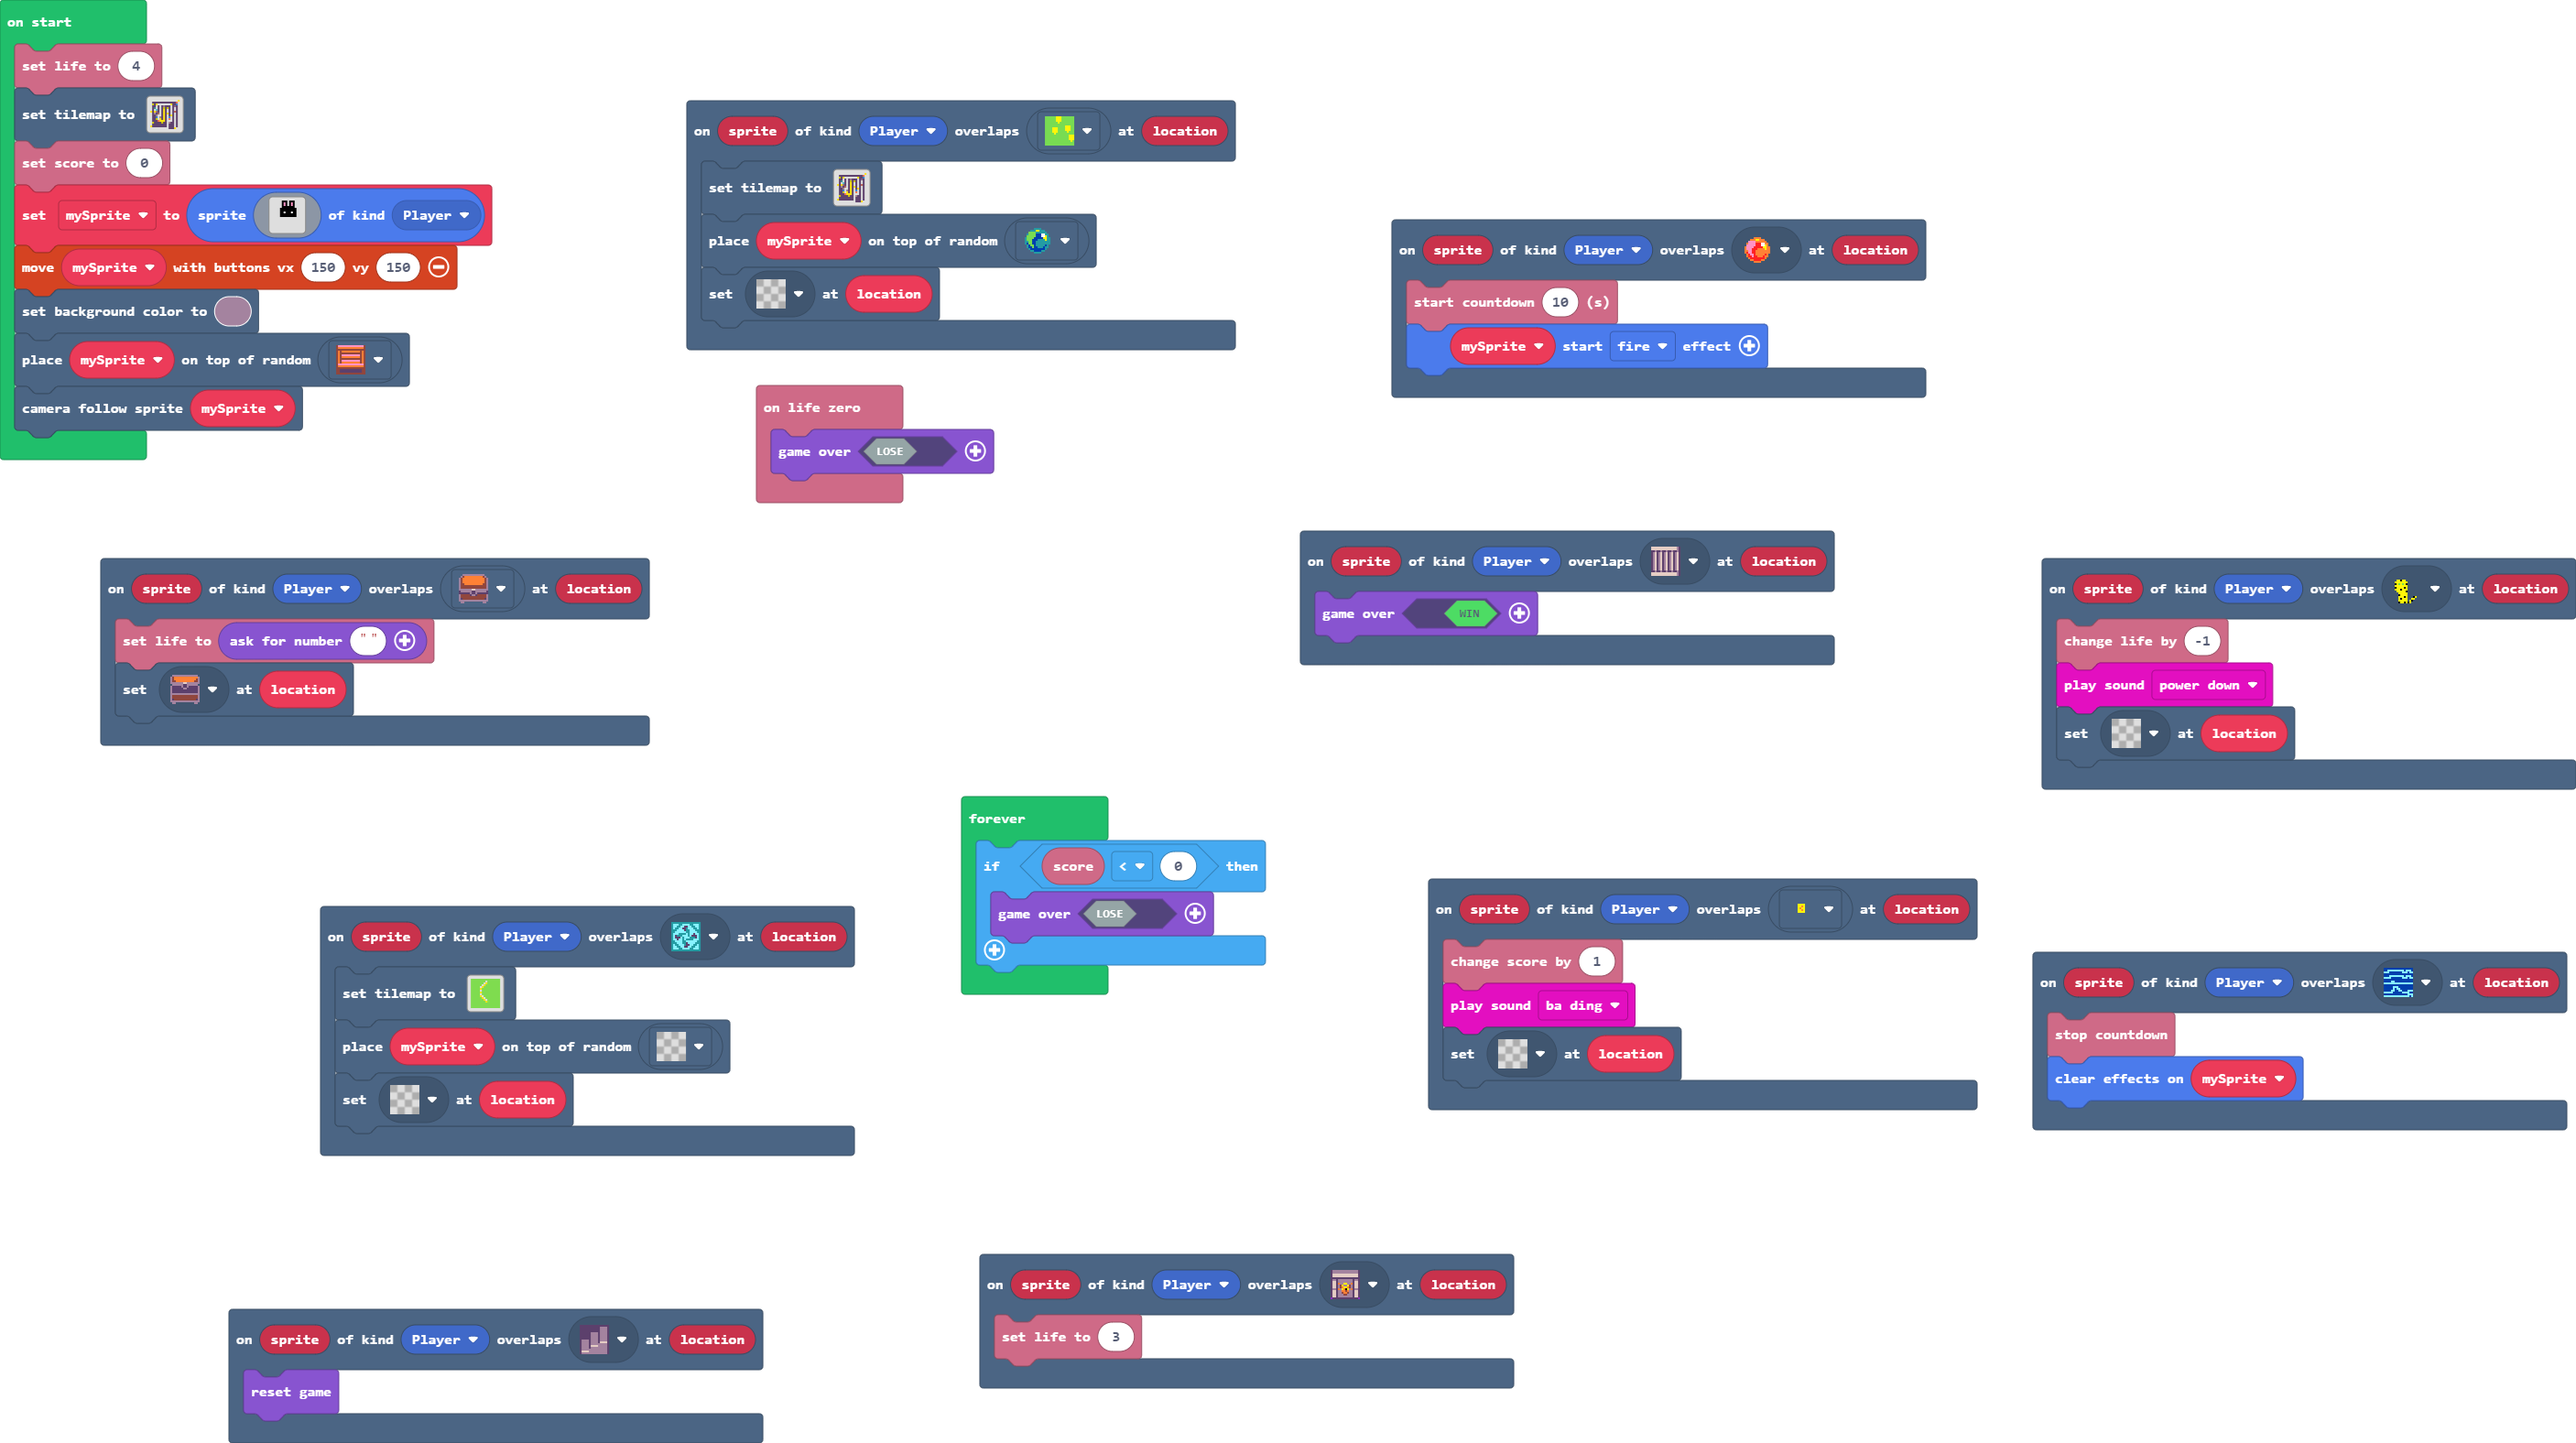
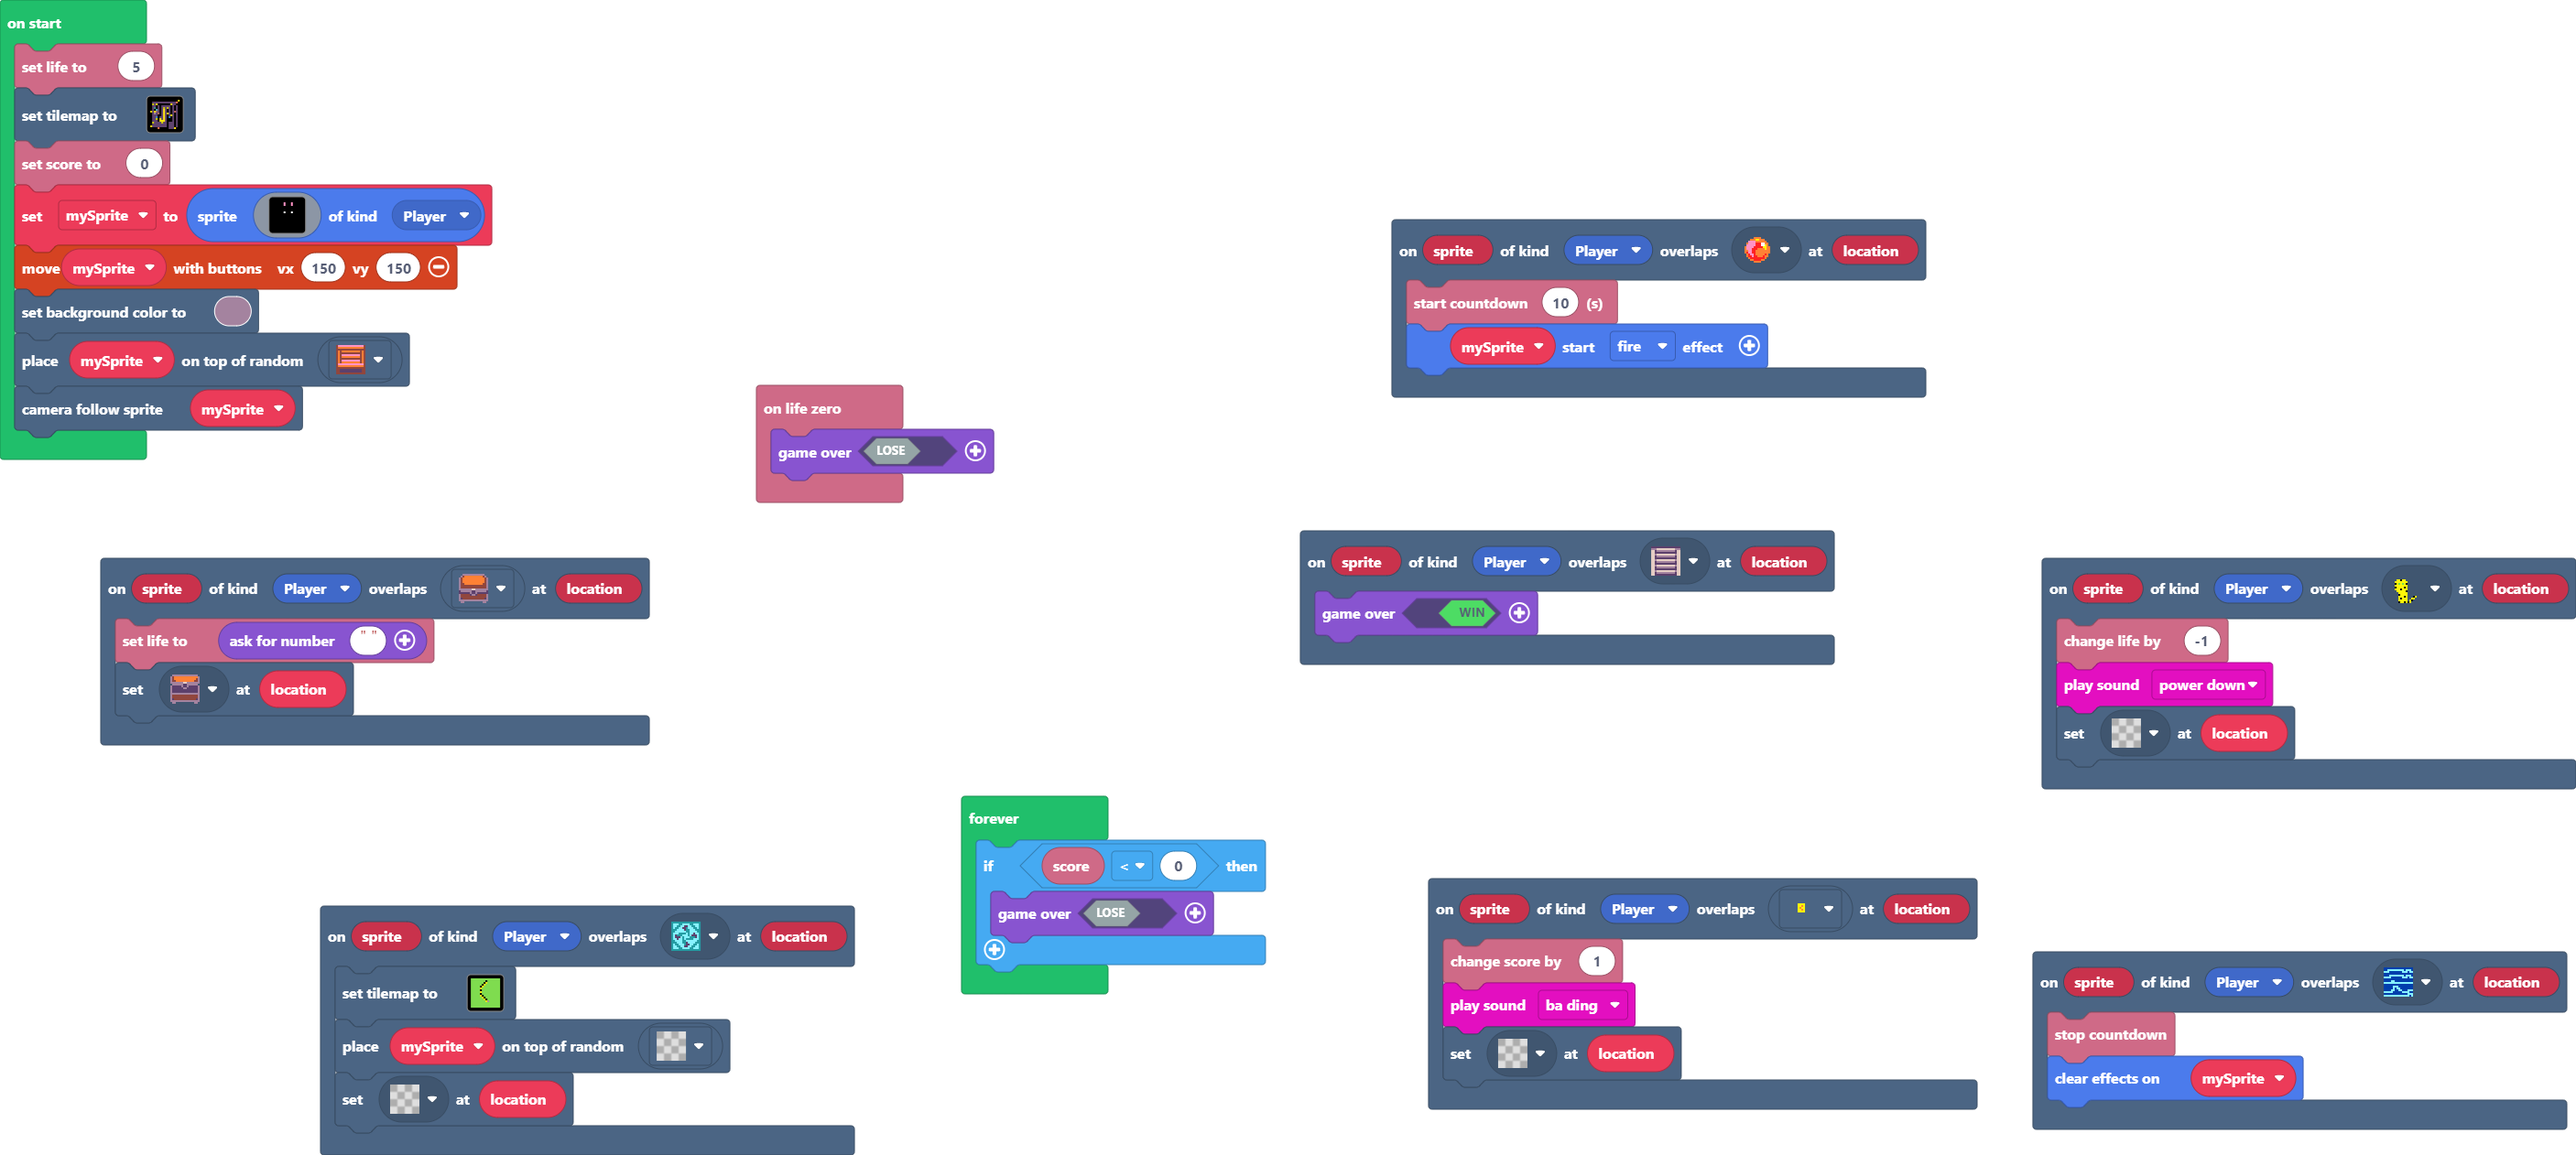
Update pxt.json, main.blocks, main.ts, tilemap.g.jres, tilemap.g.ts

diff --git a/tilemap.g.ts b/tilemap.g.ts
@@ -108,25 +108,6 @@ namespace myTiles {
 . . . . . . . . . . . . . . . . 
 . . . . . . . . . . . . . . . . 
 `, [myTiles.transparency16], TileScale.Sixteen);
-            case "level3":
-            case "level3":return tiles.createTilemap(hex`1000100003030303030303030303030303030303030303030303030300030303030303030303030303030300020303030303030303030303030300020303030303030303030303030300020303030303030303030303030303020303030303030303030303030303030003030303030303030303030303030302030303030303030303030303030303000303030303030303030303030303030200030303030303030303030303030303020003030303030303030303030303030302000303030303030303030303030303030201030303030303030303030303030303030303030303030303030303030303030303030303030303030303030303030303030303030303`, img`
-2 2 2 2 2 2 2 2 2 2 2 2 2 2 2 2 
-2 2 2 2 2 2 2 2 . 2 2 2 2 2 2 2 
-2 2 2 2 2 2 2 . . 2 2 2 2 2 2 2 
-2 2 2 2 2 2 . . 2 2 2 2 2 2 2 2 
-2 2 2 2 2 . . 2 2 2 2 2 2 2 2 2 
-2 2 2 2 2 . 2 2 2 2 2 2 2 2 2 2 
-2 2 2 2 2 . 2 2 2 2 2 2 2 2 2 2 
-2 2 2 2 2 . 2 2 2 2 2 2 2 2 2 2 
-2 2 2 2 2 . 2 2 2 2 2 2 2 2 2 2 
-2 2 2 2 2 . . 2 2 2 2 2 2 2 2 2 
-2 2 2 2 2 2 . . 2 2 2 2 2 2 2 2 
-2 2 2 2 2 2 2 . . 2 2 2 2 2 2 2 
-2 2 2 2 2 2 2 2 . . 2 2 2 2 2 2 
-2 2 2 2 2 2 2 2 2 2 2 2 2 2 2 2 
-2 2 2 2 2 2 2 2 2 2 2 2 2 2 2 2 
-2 2 2 2 2 2 2 2 2 2 2 2 2 2 2 2 
-`, [myTiles.transparency16,myTiles.tile1,myTiles.tile2,sprites.castle.tileGrass1], TileScale.Sixteen);
             case "level8":
             case "level8":return tiles.createTilemap(hex`1000100001010101010101010101010101010101010101010101010101010101010101010101010101010101010101010101010101010101010101010101010101010101010101010101010101010101010101010101010101010101010101010101010101010101010101010101010101010101010101010101010101010101010101010101010101010101010101010101010101010101010101010101010101010101010101010101010101010101010101010101010101010101010101010101010101010101010101010101010101010101010101010101010101010101010101010101010101010101010101010101010101010101010101010101010101010101`, img`
 . . . . . . . . . . . . . . . . 
@@ -184,25 +165,6 @@ namespace myTiles {
 . . . . . . . . . . . . . . . . 
 . . . . . . . . . . . . . . . . 
 `, [myTiles.transparency16], TileScale.Sixteen);
-            case "4321":
[1 lines of base64/hex data omitted]
-. . . . . . . . . . . . . . . . 
-. 2 2 2 2 2 2 2 2 2 2 2 . 2 . . 
-. . 2 . . . . . . . . . . 2 . . 
-. 2 2 . 2 . 2 . 2 2 2 . 2 . 2 . 
-. 2 . . 2 . 2 . 2 . 2 . 2 . 2 . 
-. 2 . . 2 . 2 . 2 . 2 . 2 . 2 . 
-. 2 . 2 2 . 2 . 2 . 2 . 2 . 2 . 
-. 2 . 2 . . 2 . 2 . 2 . 2 . 2 . 
-. 2 2 . . . 2 . 2 . 2 . 2 . 2 . 
-. 2 2 . . . 2 . 2 . . . 2 . 2 . 
-. 2 2 . . . 2 . 2 . . . 2 . 2 . 
-. 2 2 2 . . . . 2 . . . 2 . 2 . 
-. . 2 2 2 2 . 2 2 . . 2 2 . 2 . 
-. 2 2 2 2 2 2 2 2 . 2 2 2 . 2 . 
-. 2 2 2 2 2 2 2 2 . 2 2 2 . 2 . 
-. . . . . . . . . . 2 2 2 . . . 
-`, [myTiles.transparency16,sprites.dungeon.stairWest,sprites.dungeon.stairLarge,myTiles.tile2,myTiles.tile3,sprites.dungeon.darkGroundNorthWest1,sprites.dungeon.collectibleInsignia,sprites.dungeon.collectibleBlueCrystal,sprites.dungeon.doorLockedNorth,sprites.dungeon.collectibleRedCrystal,myTiles.tile4,sprites.dungeon.chestClosed,sprites.dungeon.chestOpen,sprites.dungeon.stairLadder], TileScale.Sixteen);
             case "level11":
             case "level11":return tiles.createTilemap(hex`1000100000000000000000000000000000000000000000000000000000000000000000000000000000000000000000000000000000000000000000000000000000000000000000000000000000000000000000000000000000000000000000000000000000000000000000000000000000000000000000000000000000000000000000000000000000000000000000000000000000000000000000000000000000000000000000000000000000000000000000000000000000000000000000000000000000000000000000000000000000000000000000000000000000000000000000000000000000000000000000000000000000000000000000000000000000000000`, img`
 . . . . . . . . . . . . . . . . 
@@ -281,6 +243,63 @@ namespace myTiles {
 `, [myTiles.transparency16], TileScale.Sixteen);
             case "level15":
             case "level15":return tiles.createTilemap(hex`1000100000000000000000000000000000000000000000000000000000000000000000000000000000000000000000000000000000000000000000000000000000000000000000000000000000000000000000000000000000000000000000000000000000000000000000000000000000000000000000000000000000000000000000000000000000000000000000000000000000000000000000000000000000000000000000000000000000000000000000000000000000000000000000000000000000000000000000000000000000000000000000000000000000000000000000000000000000000000000000000000000000000000000000000000000000000000`, img`
+. . . . . . . . . . . . . . . . 
+. . . . . . . . . . . . . . . . 
+. . . . . . . . . . . . . . . . 
+. . . . . . . . . . . . . . . . 
+. . . . . . . . . . . . . . . . 
+. . . . . . . . . . . . . . . . 
+. . . . . . . . . . . . . . . . 
+. . . . . . . . . . . . . . . . 
+. . . . . . . . . . . . . . . . 
+. . . . . . . . . . . . . . . . 
+. . . . . . . . . . . . . . . . 
+. . . . . . . . . . . . . . . . 
+. . . . . . . . . . . . . . . . 
+. . . . . . . . . . . . . . . . 
+. . . . . . . . . . . . . . . . 
+. . . . . . . . . . . . . . . . 
+`, [myTiles.transparency16], TileScale.Sixteen);
+            case "4321":
[1 lines of base64/hex data omitted]
+. . . . . . . . . . . . . . . . 
+. 2 2 2 2 2 2 2 2 2 2 2 . 2 . . 
+. . 2 . . . . . . . . . . 2 . . 
+. 2 2 . 2 . 2 2 2 2 2 . 2 . 2 . 
+. 2 . . 2 . 2 . 2 . 2 . 2 . 2 . 
+. 2 . . 2 . 2 . 2 . 2 . 2 . 2 . 
+. 2 . 2 2 . 2 . 2 . 2 . 2 . 2 . 
+. 2 . 2 . . 2 . 2 . 2 . 2 . 2 . 
+. 2 2 2 . . 2 . 2 . 2 . 2 . 2 . 
+. 2 2 . . 2 2 . 2 . . . 2 . 2 . 
+. 2 2 . . . 2 . 2 . . . 2 . 2 . 
+. 2 2 2 . . . . 2 . . . 2 . 2 . 
+. . 2 2 2 2 . 2 2 . 2 2 2 . 2 . 
+. 2 2 2 2 2 2 2 2 . 2 2 2 . 2 . 
+. 2 2 2 2 2 2 2 2 . 2 2 2 . 2 . 
+. . . . . . . . . . 2 2 2 . . . 
+`, [myTiles.transparency16,myTiles.tile2,myTiles.tile3,sprites.dungeon.darkGroundNorthWest1,sprites.dungeon.collectibleInsignia,sprites.dungeon.collectibleBlueCrystal,sprites.dungeon.collectibleRedCrystal,myTiles.tile4,sprites.dungeon.chestClosed,sprites.dungeon.chestOpen,sprites.dungeon.stairLadder,sprites.dungeon.stairSouth], TileScale.Sixteen);
+            case "level3":
+            case "level3":return tiles.createTilemap(hex`1000100002020202020202020202020202020202020202020202020200020202020202020202020202020200010202020202020202020202020200010202020202020202020202020200010202020202020202020202020202010202020202020202020202020202020002020202020202020202020202020201020202020202020202020202020202000202020202020202020202020202020100020202020202020202020202020202010002020202020202020202020202020201000202020202020202020202020202020103020202020202020202020202020202020202020202020202020202020202020202020202020202020202020202020202020202020202`, img`
+2 2 2 2 2 2 2 2 2 2 2 2 2 2 2 2 
+2 2 2 2 2 2 2 2 . 2 2 2 2 2 2 2 
+2 2 2 2 2 2 2 . . 2 2 2 2 2 2 2 
+2 2 2 2 2 2 . . 2 2 2 2 2 2 2 2 
+2 2 2 2 2 . . 2 2 2 2 2 2 2 2 2 
+2 2 2 2 2 . 2 2 2 2 2 2 2 2 2 2 
+2 2 2 2 2 . 2 2 2 2 2 2 2 2 2 2 
+2 2 2 2 2 . 2 2 2 2 2 2 2 2 2 2 
+2 2 2 2 2 . 2 2 2 2 2 2 2 2 2 2 
+2 2 2 2 2 . . 2 2 2 2 2 2 2 2 2 
+2 2 2 2 2 2 . . 2 2 2 2 2 2 2 2 
+2 2 2 2 2 2 2 . . 2 2 2 2 2 2 2 
+2 2 2 2 2 2 2 2 . . 2 2 2 2 2 2 
+2 2 2 2 2 2 2 2 2 2 2 2 2 2 2 2 
+2 2 2 2 2 2 2 2 2 2 2 2 2 2 2 2 
+2 2 2 2 2 2 2 2 2 2 2 2 2 2 2 2 
+`, [myTiles.transparency16,myTiles.tile2,sprites.castle.tileGrass1,sprites.dungeon.stairSouth], TileScale.Sixteen);
+            case "level16":
+            case "level16":return tiles.createTilemap(hex`1000100000000000000000000000000000000000000000000000000000000000000000000000000000000000000000000000000000000000000000000000000000000000000000000000000000000000000000000000000000000000000000000000000000000000000000000000000000000000000000000000000000000000000000000000000000000000000000000000000000000000000000000000000000000000000000000000000000000000000000000000000000000000000000000000000000000000000000000000000000000000000000000000000000000000000000000000000000000000000000000000000000000000000000000000000000000000`, img`
 . . . . . . . . . . . . . . . . 
 . . . . . . . . . . . . . . . . 
 . . . . . . . . . . . . . . . . 

diff --git a/main.ts b/main.ts
@@ -1,23 +1,15 @@
+namespace SpriteKind {
+    export const StatusBar = SpriteKind.create()
+}
 scene.onOverlapTile(SpriteKind.Player, assets.tile`myTile0`, function (sprite, location) {
     info.changeScoreBy(1)
     music.baDing.play()
     tiles.setTileAt(location, assets.tile`transparency16`)
 })
-scene.onOverlapTile(SpriteKind.Player, sprites.dungeon.doorLockedNorth, function (sprite, location) {
-    info.setLife(3)
-})
 scene.onOverlapTile(SpriteKind.Player, assets.tile`myTile1`, function (sprite, location) {
     info.changeLifeBy(-1)
     music.powerDown.play()
     tiles.setTileAt(location, assets.tile`transparency16`)
-})
-scene.onOverlapTile(SpriteKind.Player, assets.tile`myTile`, function (sprite, location) {
-    tiles.setTilemap(tilemap`4321`)
-    tiles.placeOnRandomTile(mySprite, sprites.dungeon.collectibleBlueCrystal)
-    tiles.setTileAt(location, assets.tile`transparency16`)
-})
-scene.onOverlapTile(SpriteKind.Player, sprites.dungeon.stairWest, function (sprite, location) {
-    game.over(true)
 })
 scene.onOverlapTile(SpriteKind.Player, sprites.dungeon.chestClosed, function (sprite, location) {
     info.setLife(game.askForNumber(""))
@@ -34,16 +26,16 @@ scene.onOverlapTile(SpriteKind.Player, sprites.dungeon.collectibleRedCrystal, fu
     info.startCountdown(10)
     mySprite.startEffect(effects.fire)
 })
-scene.onOverlapTile(SpriteKind.Player, sprites.dungeon.stairLarge, function (sprite, location) {
-    game.reset()
-})
 scene.onOverlapTile(SpriteKind.Player, sprites.dungeon.collectibleInsignia, function (sprite, location) {
     tiles.setTilemap(tilemap`level3`)
     tiles.placeOnRandomTile(mySprite, assets.tile`transparency16`)
     tiles.setTileAt(location, assets.tile`transparency16`)
 })
+scene.onOverlapTile(SpriteKind.Player, sprites.dungeon.stairSouth, function (sprite, location) {
+    game.over(true)
+})
 let mySprite: Sprite = null
-info.setLife(4)
+info.setLife(5)
 tiles.setTilemap(tilemap`4321`)
 info.setScore(0)
 mySprite = sprites.create(assets.image`12`, SpriteKind.Player)
